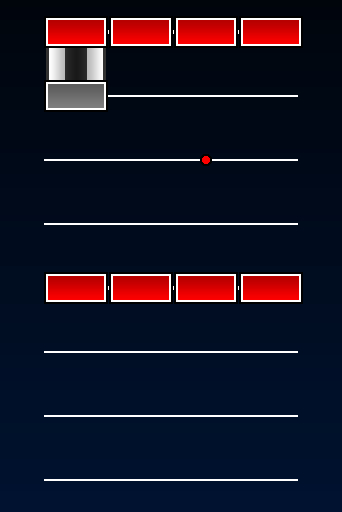
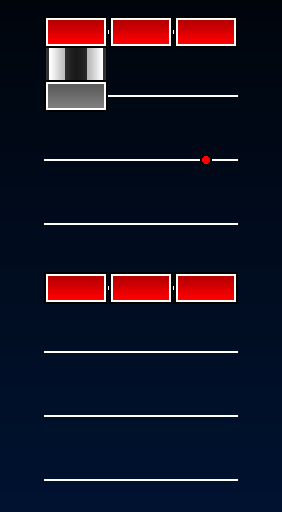
Add kb3

diff --git a/measure/defaultstyle.js b/measure/defaultstyle.js
@@ -10,5 +10,23 @@ exports.defaultstyle = {
   "gddm": "real",
   "gh": "solo",
   "para": "single",
-  "kb4": "single"
+  "kb1": "single",
+  "kb2": "single",
+  "kb3": "single",
+  "kb4": "single",
+  "kb5": "single",
+  "kb6": "single",
+  "kb7": "single",
+  "kb8": "single",
+  "kb9": "single",
+  "kb10": "single",
+  "kb11": "single",
+  "kb12": "single",
+  "kb13": "single",
+  "kb14": "single",
+  "kb15": "single",
+  "kb16": "single",
+  "kb17": "single",
+  "kb18": "single",
+  "kb19": "single"
 }

diff --git a/measure/index.js b/measure/index.js
@@ -5,7 +5,7 @@ const defaultstyle = require('./defaultstyle.js');
 
 const main = async () => {
   // Selected mode/style input
-  const curMode = 'kb4';
+  const curMode = 'kb3';
   const curStyle = '' || defaultstyle.defaultstyle[curMode];
   const reverse = false;
   const showMeasureLines = true;

diff --git a/measure/stylechart.js b/measure/stylechart.js
@@ -186,5 +186,9 @@ exports.stylechart = {
   "kb4-single": [
     ['2111', 'DL000', '00M0', '0000'],
     ['1111', '0000', '0000', '0000']
+  ],
+  "kb3-single": [
+    ['211', 'DL00', '00M', '000'],
+    ['111', '000', '000', '000']
   ]
 };
